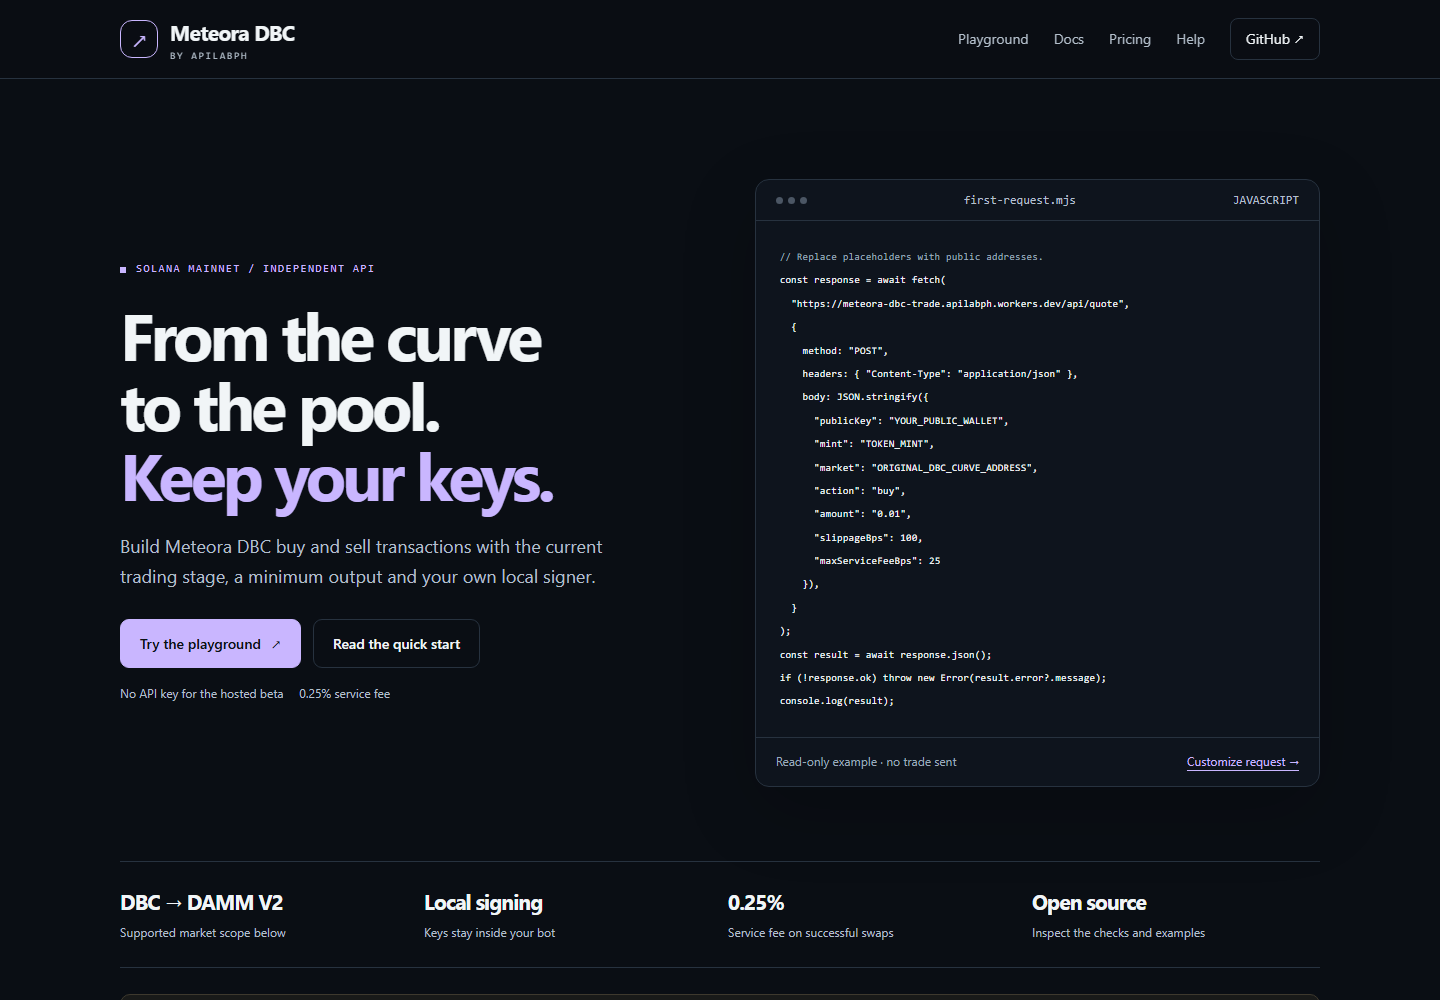
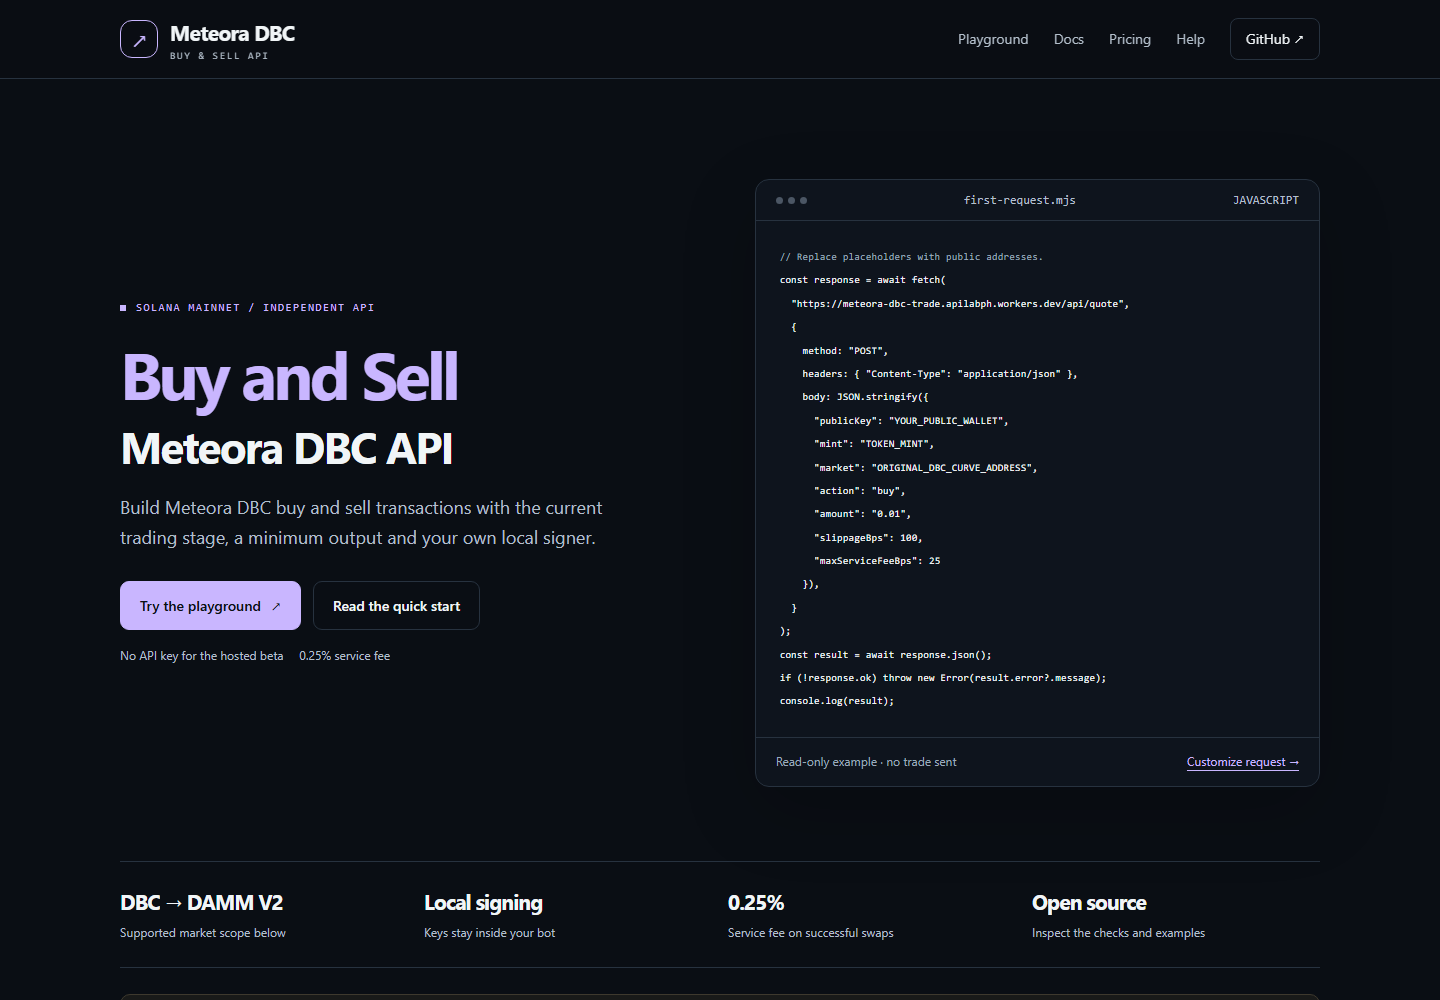
Emphasize buy and sell in website headings

Changed region(s): [[0.0625, 0.248, 0.4062, 0.713], [0.125, 0.031, 0.1875, 0.062]]

diff --git a/website/index.html b/website/index.html
@@ -33,7 +33,7 @@
       <div class="wrap nav">
         <a class="brand" href="#main"
           ><span class="mark" aria-hidden="true">↗</span
-          ><span>Meteora DBC<small>BY APILABPH</small></span></a
+          ><span>Meteora DBC<small>BUY &amp; SELL API</small></span></a
         >
         <nav class="navlinks" aria-label="Main navigation">
           <a href="#playground">Playground</a><a href="#guides">Docs</a
@@ -53,7 +53,8 @@
             <span class="dot"></span>Solana mainnet / Independent API
           </div>
           <h1 id="hero-title">
-            From the curve<br />to the pool.<br /><span>Keep your keys.</span>
+            <span class="hero-action">Buy and Sell</span>
+            <span class="hero-product">Meteora DBC API</span>
           </h1>
           <p class="lead">
             Build Meteora DBC buy and sell transactions with the current trading

diff --git a/website/style.css b/website/style.css
@@ -170,8 +170,17 @@ button:disabled {
   letter-spacing: -0.055em;
   margin: 22px 0;
 }
-.hero h1 span {
+.hero-action {
+  display: block;
   color: var(--accent);
+}
+.hero-product {
+  display: block;
+  margin-top: 12px;
+  color: var(--text);
+  font-size: clamp(28px, 3.1vw, 44px);
+  line-height: 1.15;
+  letter-spacing: -0.04em;
 }
 .lead {
   font-size: 18px;

diff --git a/website/README.md b/website/README.md
@@ -18,6 +18,7 @@ The playground uses a small local proxy because the production Solana APIs do no
 
 ## What visitors get
 
+- A prominent Buy and Sell headline, the API name directly below, and a matching header label on desktop and mobile.
 - A product-specific landing page, mobile layout and independent-integration identity.
 - Guided requests with JavaScript, Python and POSIX-shell cURL examples.
 - Correct amount-unit explanations, a fee ceiling and operation-specific requirements.
